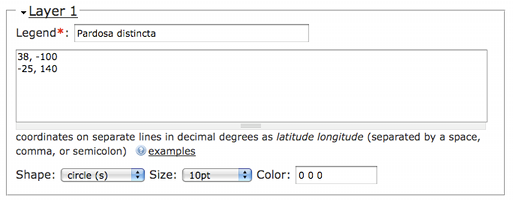
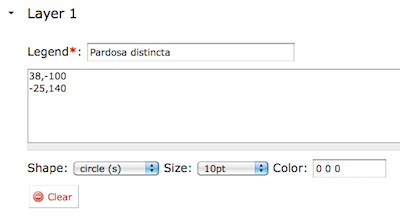
Adjusted help page

Changed region(s): [[0.0, 0.0297, 1.0, 0.9802]]

diff --git a/css/screen.css b/css/screen.css
@@ -846,9 +846,13 @@ div.panel a.help {
 #map-help ul.toolbar li.toolsSave { background-position: 0 -792px; }
 #map-help ul.toolbar li.toolsDownload { background-position: 0 -1452px; }
 
-img.screenshot {
-    border:2px solid #CCCCCC;
-    padding:3px;
+#map-help #example-data {
+  height:220px;
+}
+
+#map-help #example-data img {
+  vertical-align:middle;
+  margin-right:20px;
 }
 
 #map-help table {

diff --git a/tabs/help.php b/tabs/help.php
@@ -46,18 +46,21 @@ $("#filter").keyup(function() { $.uiTableFilter( $('#countrycodes'), this.value 
             <li class="sprites rotateAnticlockwise">Rotate counter-clockwise: select 5<sup>o</sup>, 10<sup>o</sup>, and 15<sup>o</sup> from the drop-down menu while hovering on this icon</li>
             <li class="sprites rotateClockwise">Rotate clockwise: as above</li>
             <li class="sprites toolsCrop">Crop: click this icon to draw an expandable, square-shaped rubber band that precisely defines a cropped portion of the map you wish to appear in the exported map</li> 
-            <li class="sprites toolsQuery">Fill regions: click this icon to draw an expandable, square-shaped rubber band that will shade all States and Provinces found within. Regions get automatically added to and replace the contents of Region 1 form under the Regions tab.</li>
+            <li class="sprites toolsQuery">Fill regions: click this icon to choose a color then draw an expandable, square-shaped rubber band that will shade States and Provinces (if layer visible) or Countries bound within. Selected areas are added under the Regions tab.</li>
+<!--
             <li class="sprites toolsDraw">Draw shape: click this icon to draw an free-hand line. A freehand drawing gets automatically added to and replaces the contents of Freehand 1 form under the Freehand tab.</li>
+-->
             <li class="sprites toolsRefresh">Refresh: refresh the map image</li>
             <li class="sprites toolsRebuild">Rebuild: re-render the default presentation at lowest zoom and geographic projection</li>
         </ul>
     <p><strong>Layers:</strong></p>
         <ul>
-            <li>State/Provinces: select this checkbox to draw all State and Province borders for all countries</li>
+            <li>State/Provinces borders: select this checkbox to draw all State and Province borders for all countries</li>
             <li>place names: select this checkbox to overlay place names</li>
             <li>physical labels: select this checkbox to overlay labels for physical features</li>
             <li>marine labels: select this checkbox to overlay labels for marine features</li>
-            <li>lakes: select this checkbox to overlay lakes as greyscale polygons</li>
+            <li>lakes (filled): select this checkbox to overlay lakes as greyscale polygons</li>
+            <li>lakes (outline): select this checkbox to overlay lakes as black outlines</li>
             <li>rivers: select this checkbox to overlay rivers as black outlines</li>
             <li>shaded relief: select this checkbox to render a color, shaded relief layer</li>
             <li>shaded relief (greyscale): select this checkbox to render a greyscale, shaded relief layer</li>
@@ -69,12 +72,12 @@ $("#filter").keyup(function() { $.uiTableFilter( $('#countrycodes'), this.value 
         </ul>
     <p><strong>Projection:</strong></p>
         <ul>
-            <li>Choose among several projections. [Hint: first use zoom while on the base geographic projection]</li>
+            <li>Choose among several projections. [Hint: first use zoom while on the base geographic projection for best effects]</li>
         </ul>
     
     <ul class="toolbar">
         <li class="sprites toolsSave">While logged in, click this icon to give your map a title and save its settings for later reuse from the <em>My Maps</em> tab.</li>
-        <li class="sprites toolsDownload">Download the map as web-friendly png, high resolution tif, eps, or scalable vector graphic (svg). The latter is recommended for the preparation of figures in manuscripts because it is lossless. However, the svg download does not include a scalebar, legend, or shaded relief layer.</li>
+        <li class="sprites toolsDownload">Download the map as web-friendly png, high resolution tif, eps, or scalable vector graphic (svg). The latter is recommended for the preparation of figures in manuscripts because it is lossless. However, the svg download does not include a scalebar, legend, or shaded relief layer(s) because these are raster-based.</li>
     </ul>
     
     <h2>Point Data</h2>
@@ -82,8 +85,11 @@ $("#filter").keyup(function() { $.uiTableFilter( $('#countrycodes'), this.value 
     
     <div>
     <p><strong>Coordinate format:</strong> <em>e.g.</em> in western hemisphere above equator 45.55, -120.25; in western hemisphere below equator -15.66, -65.10; eastern hemisphere above equator 64.82, 75.1</p>
-    <p><img src="/images/help_data.png" alt="Example Data Entry" /></p>
-    <p><img src="/images/38100.png" alt="38,-100 (North America)" /><img src="/images/25140.png" alt="-25,140 (Australia)" /></p>
+    <div id="example-data">
+      <img src="/images/help_data.png" alt="Example Data Entry" />
+      <img src="/images/38100.png" alt="38,-100 (North America)" />
+      <img src="/images/25140.png" alt="-25,140 (Australia)" />
+    </div>
     <p><strong>Pushpin color:</strong> The pushpin colors are configured using the RGB color scheme and a color selector is provided. By default, "0 0 0" (black) is selected. Shades of gray may be configured by typing variations of identically numbered triples. For example, "10 10 10" is dark gray whereas "100 100 100" is a lighter shade of gray.</p>
     </div>
     
